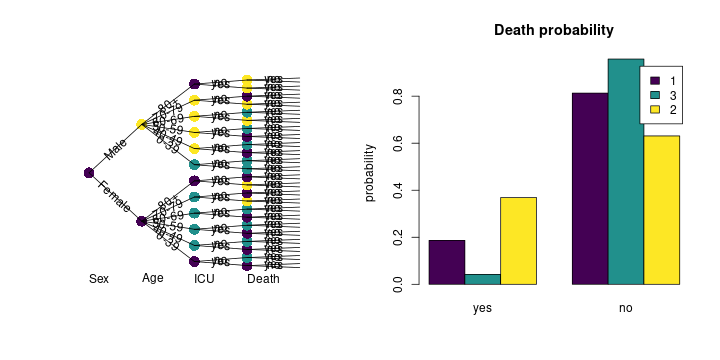
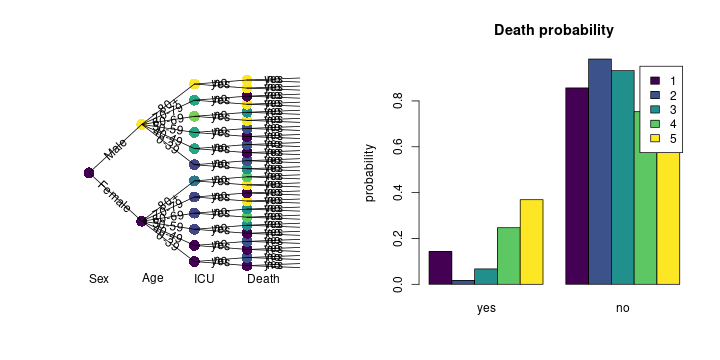
upd

diff --git a/stagedtrees_useR2021.html b/stagedtrees_useR2021.html
@@ -50,7 +50,7 @@ class: chapter-slide
 * `\(X = (X_1, \ldots, X_n)\)` categorical
 * `\(P(X) = \prod_{i=1}^n P(X_i| X_{1:(i-1)})\)`
 * such event tree is called `\(X\)`-compatible 
-* if two nodes **at the same depth** have the same color then 
+* if two nodes **at the same depth** are of the same color then 
 the associated conditional probabilities are equal `\(P(\texttt{Survived}|\texttt{Crew, Adult})\)` 
 `\(= P(\texttt{Survived}|\texttt{3d, Adult})\)`
 * chain event graphs are an equivalent, (sometimes) more compact, 
@@ -220,7 +220,7 @@ class: chapter-slide
 
 We consider data simulated from a full staged event tree manually specified&lt;sup&gt;1&lt;/sup&gt;
 using the conditional probabilities from Lefrancq et al. (2021) describing
-ICU admission probabilities and survival rates for covid patients in France
+ICU admission probabilities and survival rates for SARS-CoV-2 patients in France
 conditional on age and sex. An event tree with order `Sex`, `Age`, `ICU`, 
 `Death` naturally describes the data.
 
@@ -328,10 +328,12 @@ stages_kmeans(full_model, k = 3, algorithm = "Hartigan-Wong")
 
 ---
 
+Most of the functions play nicely with the pipe operator `|&gt;` 
+
 
 ```r
-model &lt;- full(simLefrancq2021) |&gt; stages_bhc(scope = c("Age")) |&gt;
-    stages_kmeans(scope = c("ICU", "Death"), k = 3) |&gt; print()
+full(simLefrancq2021) |&gt; stages_bhc(scope = c("Age")) |&gt;
+    stages_kmeans(scope = c("ICU", "Death"), k = 3)
 ```
 
 ```
@@ -339,9 +341,17 @@ model &lt;- full(simLefrancq2021) |&gt; stages_bhc(scope = c("Age")) |&gt;
 ## Sex[2] -&gt; Age[6] -&gt; ICU[2] -&gt; Death[2]  
 ## 'log Lik.' -32011.78 (df=17)
 ```
-.center[
-&lt;img src="stagedtrees_useR2021_files/figure-html/unnamed-chunk-19-1.png" title="Plot of the staged event tree obtained for the simulated Lefrancq 2021 data. The order of the variables is: Sex, Age, ICU, Death." alt="Plot of the staged event tree obtained for the simulated Lefrancq 2021 data. The order of the variables is: Sex, Age, ICU, Death."  /&gt;
-]
+
+
+```r
+model &lt;- stages_bhc(full_model) |&gt; stndnaming() |&gt; print()
+```
+
+```
+## Staged event tree (fitted) 
+## Sex[2] -&gt; Age[6] -&gt; ICU[2] -&gt; Death[2]  
+## 'log Lik.' -31921.26 (df=22)
+```
 
 ---
 
@@ -352,7 +362,8 @@ Silander and Leong (2013).
 
 
 ```r
-search_best(simLefrancq2021, alg = stages_bhc)
+model1 &lt;- search_best(simLefrancq2021, alg = stages_bhc)
+model1
 ```
 
 ```
@@ -434,7 +445,7 @@ barplot(model, var = "Death", col = \(s) viridis(length(s)),
         legend.text = TRUE, main = "Death probability")
 ```
 
-&lt;img src="stagedtrees_useR2021_files/figure-html/unnamed-chunk-24-1.png" title="Plot of the staged event tree for the simulated Lefrancq 2021 data on the left and bar plot for the probabilities of death given the history of the patient for the three stages learnt." alt="Plot of the staged event tree for the simulated Lefrancq 2021 data on the left and bar plot for the probabilities of death given the history of the patient for the three stages learnt." style="display: block; margin: auto;" /&gt;
+&lt;img src="stagedtrees_useR2021_files/figure-html/unnamed-chunk-24-1.png" title="On the left plot of the staged event tree for the simulated Lefrancq 2021 data. On the right the bar plot for the probabilities of death given the history of the patient for the three stages learnt." alt="On the left plot of the staged event tree for the simulated Lefrancq 2021 data. On the right the bar plot for the probabilities of death given the history of the patient for the three stages learnt." style="display: block; margin: auto;" /&gt;
 
 ---
 
@@ -461,21 +472,17 @@ hamming_stages(model, model2)
 ```
 
 ```
-## [1] 13
+## [1] 18
 ```
 
 
 ```r
-res &lt;- inclusions_stages(model, model2) 
-res$ICU
-```
+## not evaluated because 
+## of lack of space
 
-```
-##   model    model2
-## 1     2  &lt;      2
-## 2     1 !=      2
-## 4     1 !=      1
-## 8     3  &lt;      1
+inclusions_stages(model, model2) 
+
+diff_stages(model, model2)
 ```
 ]
 
@@ -485,7 +492,7 @@ res$ICU
 ## NEW in v2.2.0
 ## context specific 
 ## interventional discrepancy
-cid(model, model2)$cid
+cid(model, model1)$cid
 ```
 
 ```
@@ -519,24 +526,24 @@ prob(model, c(ICU = "yes"),
 ```
 
 ```
-## [1] 0.2399546
+## [1] 0.2017673
 ```
 ]
 
 .pull-right[
 
 ```r
-confint(model, "ICU")
+confint(model, "ICU") |&gt; head()
 ```
 
 ```
-##               2.5 %    97.5 %
-## ICU=yes|2 0.0445125 0.0599886
-## ICU=no|2  0.9400114 0.9554875
-## ICU=yes|1 0.1663329 0.1929298
-## ICU=no|1  0.8070702 0.8336671
-## ICU=yes|3 0.2811031 0.3108350
-## ICU=no|3  0.6891650 0.7188969
+##                2.5 %     97.5 %
+## ICU=yes|1 0.09661057 0.14655053
+## ICU=no|1  0.85344947 0.90338943
+## ICU=yes|2 0.17294559 0.20214545
+## ICU=no|2  0.79785455 0.82705441
+## ICU=yes|3 0.02323431 0.04090181
+## ICU=no|3  0.95909819 0.97676569
 ```
 ]
 
@@ -565,7 +572,7 @@ BIC(model, model2)
 
 ```
 ##        df      BIC
-## model  17 64180.13
+## model  22 64045.14
 ## model2 15 64547.86
 ```
 
@@ -574,7 +581,7 @@ logLik(model)
 ```
 
 ```
-## 'log Lik.' -32011.78 (df=17)
+## 'log Lik.' -31921.26 (df=22)
 ```
 
 ```r
@@ -588,15 +595,35 @@ lr_test(join_stages(model, "ICU", "1", "2"), model)
 ## Model 1: join_stages(model, "ICU", "1", "2")
 ## Model 2: model
 ##   #Df LogLik Df  Chisq Pr(&gt;Chisq)    
-## 1  16 -32144                         
-## 2  17 -32012  1 265.12  &lt; 2.2e-16 ***
+## 1  21 -31930                         
+## 2  22 -31921  1 17.193  3.376e-05 ***
 ## ---
 ## Signif. codes:  0 '***' 0.001 '**' 0.01 '*' 0.05 '.' 0.1 ' ' 1
 ```
 ---
 
+.center[
+### thank you for your attention!
+]
+
+`stagedtrees` package is available on [CRAN](https://cran.r-project.org/package=stagedtrees) and [github](https://github.com/gherardovarando/stagedtrees)
+under MIT license
+
+[![stagedtrees](https://www.r-pkg.org/badges/version/stagedtrees)](https://cran.r-project.org/package=stagedtrees)
+[![Build Status](https://travis-ci.com/gherardovarando/stagedtrees.svg?branch=main)](https://travis-ci.com/gherardovarando/stagedtrees)
+  [![R-CMD-check](https://github.com/gherardovarando/stagedtrees/workflows/R-CMD-check/badge.svg)](https://github.com/gherardovarando/stagedtrees/actions)
+ [![Coverage status](https://codecov.io/gh/gherardovarando/stagedtrees/branch/master/graph/badge.svg)](https://codecov.io/github/gherardovarando/stagedtrees?branch=main)
+ [![](https://cranlogs.r-pkg.org/badges/stagedtrees)](https://cran.r-project.org/package=stagedtrees)
 
 
+
+#### preprint 
+
+&lt;small&gt;
+F Carli, M Leonelli, E Riccomagno, G Varando, 
+_The R Package stagedtrees for Structural Learning of Stratified Staged Trees_, 
+2020 https://arxiv.org/abs/2004.06459
+&lt;/small&gt;
     </textarea>
 <style data-target="print-only">@media screen {.remark-slide-container{display:block;}.remark-slide-scaler{box-shadow:none;}}</style>
 <script src="https://remarkjs.com/downloads/remark-latest.min.js"></script>
